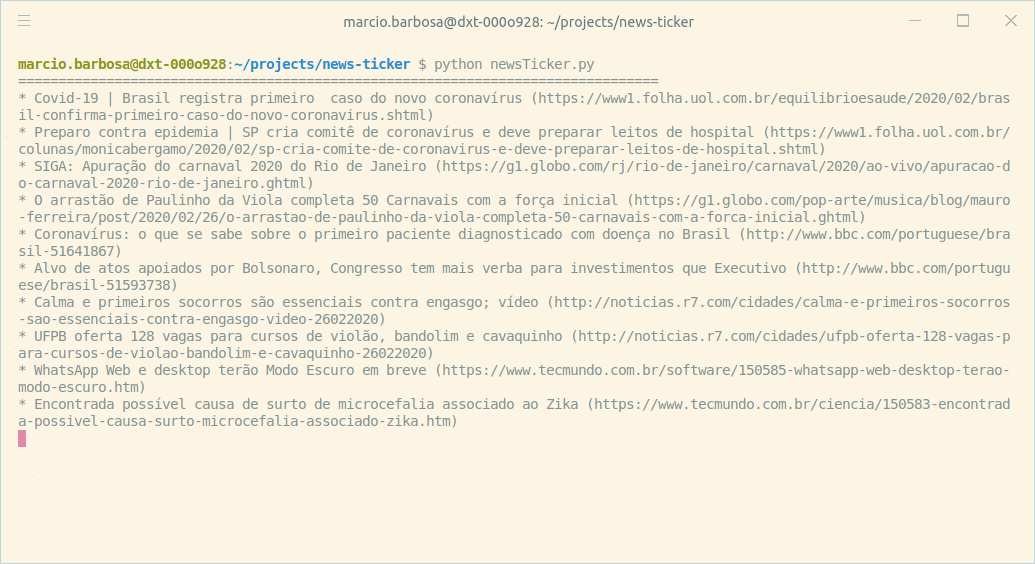
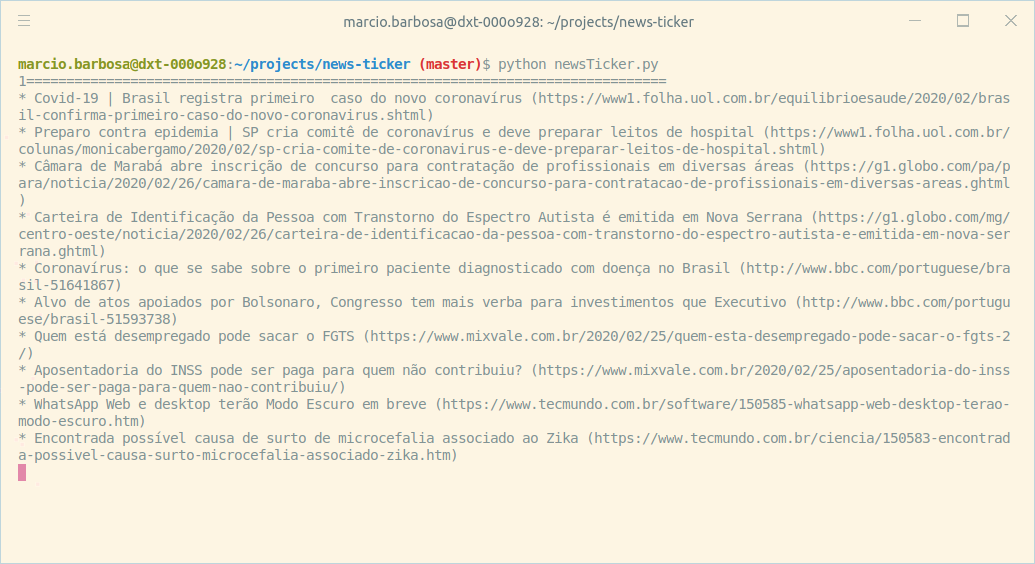
adding counter

Changed region(s): [[0.0, 0.2713, 0.9894, 0.844], [0.4019, 0.0904, 0.6493, 0.1206]]

diff --git a/newsTicker.py b/newsTicker.py
@@ -4,15 +4,21 @@
 import feedparser
 import threading
 
+count = 0
+
 def fetchFirstSecond(feed):
   dict = feedparser.parse(feed)
   for post in dict.entries[:2]:
     print ("* " + post.title + " (" + post.links[0].href + ")")
 
 def fetch():
+  global count
+  
   threading.Timer(1200.0, fetch).start()
 
-  print ("=" * 80)
+  count = count + 1
+
+  print (str(count) + ("=" * 80))
 
   fetchFirstSecond('http://rss.home.uol.com.br/index.xml')
 
